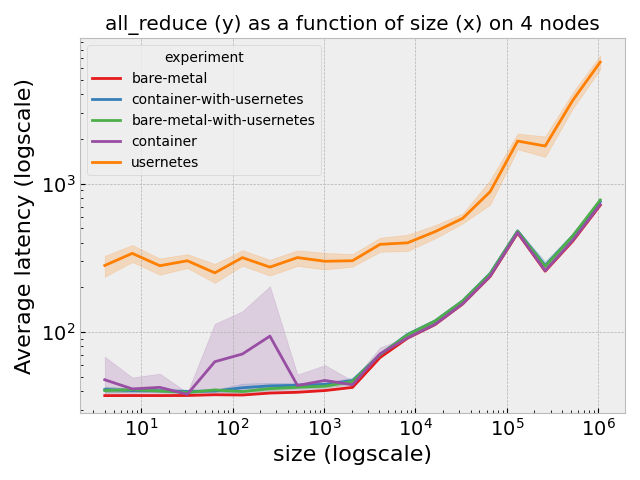
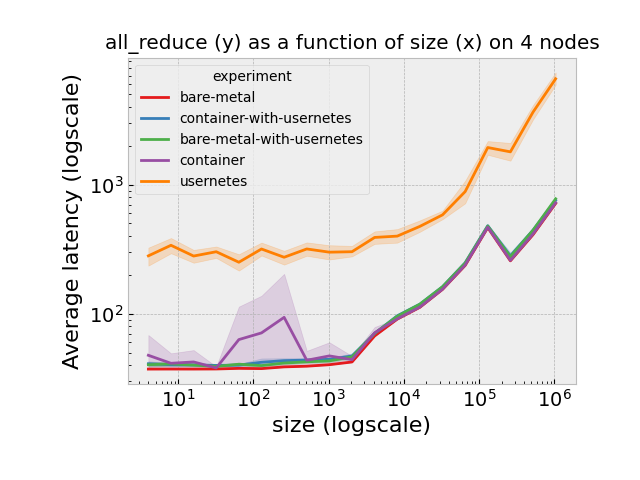
Add/additional images (#7)
* add additional plots

diff --git a/aws/experiment/plot-osu.py b/aws/experiment/plot-osu.py
@@ -86,17 +86,69 @@ def plot_results(dfs, img):
     """
     # Save each completed data frame to file and plot!
     for slug, df in dfs.items():
-        print(df.groupby(['experiment','nodes']).mean())
-        print(df.groupby(['experiment','nodes']).std())
-
-    return 
+        print(slug)
+        if slug == "latency":
+            combined = df.groupby(['experiment', 'size']).mean()
+            combined.to_csv(os.path.join(img, "osu-latency-only.csv"))
+        if "size" in df.columns:
+            print(df.groupby(['experiment','nodes', 'size']).mean())
+            print(df.groupby(['experiment','nodes', 'size']).std())
+        else:
+            print(df.groupby(['experiment','nodes']).mean())
+            print(df.groupby(['experiment','nodes']).std())
 
     # Save each completed data frame to file and plot!
     for slug, df in dfs.items():
+
+        # Barrier we can show across nodes
+        if slug == "barrier":
+
+            # Remove usernetes from the set
+            without_usernetes = df[df.experiment != "usernetes"]
+
+            # Separate x and y - latency (y) is a function of size (x)        
+            x = "ranks"
+            y = "average_latency_us"
+
+            # for sty in plt.style.available:
+            ax = sns.lineplot(
+                data=df, x=x, y=y, markers=True, dashes=True, errorbar=("ci", 95), hue="experiment", palette="Set1"
+            )
+            plt.title(f"{slug} (y) as a function of size (x) across nodes")
+            ax.set_xlabel("size (logscale)", fontsize=16)
+            ax.set_ylabel("Average latency (logscale)", fontsize=16)
+            ax.set_xticklabels(ax.get_xmajorticklabels(), fontsize=14)
+            ax.set_yticklabels(ax.get_yticks(), fontsize=14)
+            plt.subplots_adjust(left=0.2, bottom=0.2)
+            plt.xscale("log")
+            plt.yscale("log")
+            plt.savefig(os.path.join(img, f"osu-{slug}-across-nodes.png"))
+            plt.clf()
+            plt.close()
+
+            ax = sns.lineplot(
+                data=without_usernetes, x=x, y=y, markers=True, dashes=True, errorbar=("ci", 95), hue="experiment", palette="Set1"
+            )
+            plt.title(f"{slug} (y) as a function of size (x) across nodes")
+            ax.set_xlabel("size (logscale)", fontsize=16)
+            ax.set_ylabel("Average latency (logscale)", fontsize=16)
+            ax.set_xticklabels(ax.get_xmajorticklabels(), fontsize=14)
+            ax.set_yticklabels(ax.get_yticks(), fontsize=14)
+            plt.xscale("log")
+            plt.yscale("log")
+            plt.subplots_adjust(left=0.2, bottom=0.2)
+            plt.savefig(os.path.join(img, f"osu-{slug}-across-nodes-without-usernetes.png"))
+            plt.clf()
+            plt.close()
+            continue
+
         for nodes in df.nodes.unique():
             print(f"Preparing plot for {slug}")
 
             subset = df[df.nodes == nodes]
+
+            # Remove usernetes from the set
+            without_usernetes = df[df.experiment != "usernetes"]
 
             # Separate x and y - latency (y) is a function of size (x)        
             x = "size"
@@ -113,12 +165,28 @@ def plot_results(dfs, img):
             ax.set_ylabel("Average latency (logscale)", fontsize=16)
             ax.set_xticklabels(ax.get_xmajorticklabels(), fontsize=14)
             ax.set_yticklabels(ax.get_yticks(), fontsize=14)
+            plt.subplots_adjust(left=0.2, bottom=0.2)
             plt.xscale("log")
             plt.yscale("log")
-            plt.tight_layout()
             plt.savefig(os.path.join(img, f"osu-{slug}-{nodes}-nodes.png"))
             plt.clf()
             plt.close()
+
+            ax = sns.lineplot(
+                data=without_usernetes, x=x, y=y, markers=True, dashes=True, errorbar=("ci", 95), hue="experiment", palette="Set1"
+            )
+            plt.title(f"{slug} (y) as a function of {x} (x) on {nodes} nodes")
+            ax.set_xlabel(x + " (logscale)", fontsize=16)
+            ax.set_ylabel("Average latency (logscale)", fontsize=16)
+            ax.set_xticklabels(ax.get_xmajorticklabels(), fontsize=14)
+            ax.set_yticklabels(ax.get_yticks(), fontsize=14)
+            plt.xscale("log")
+            plt.yscale("log")
+            plt.subplots_adjust(left=0.2, bottom=0.2)
+            plt.savefig(os.path.join(img, f"osu-{slug}-{nodes}-nodes-without-usernetes.png"))
+            plt.clf()
+            plt.close()
+
 
 def parse_data(files):
     """
